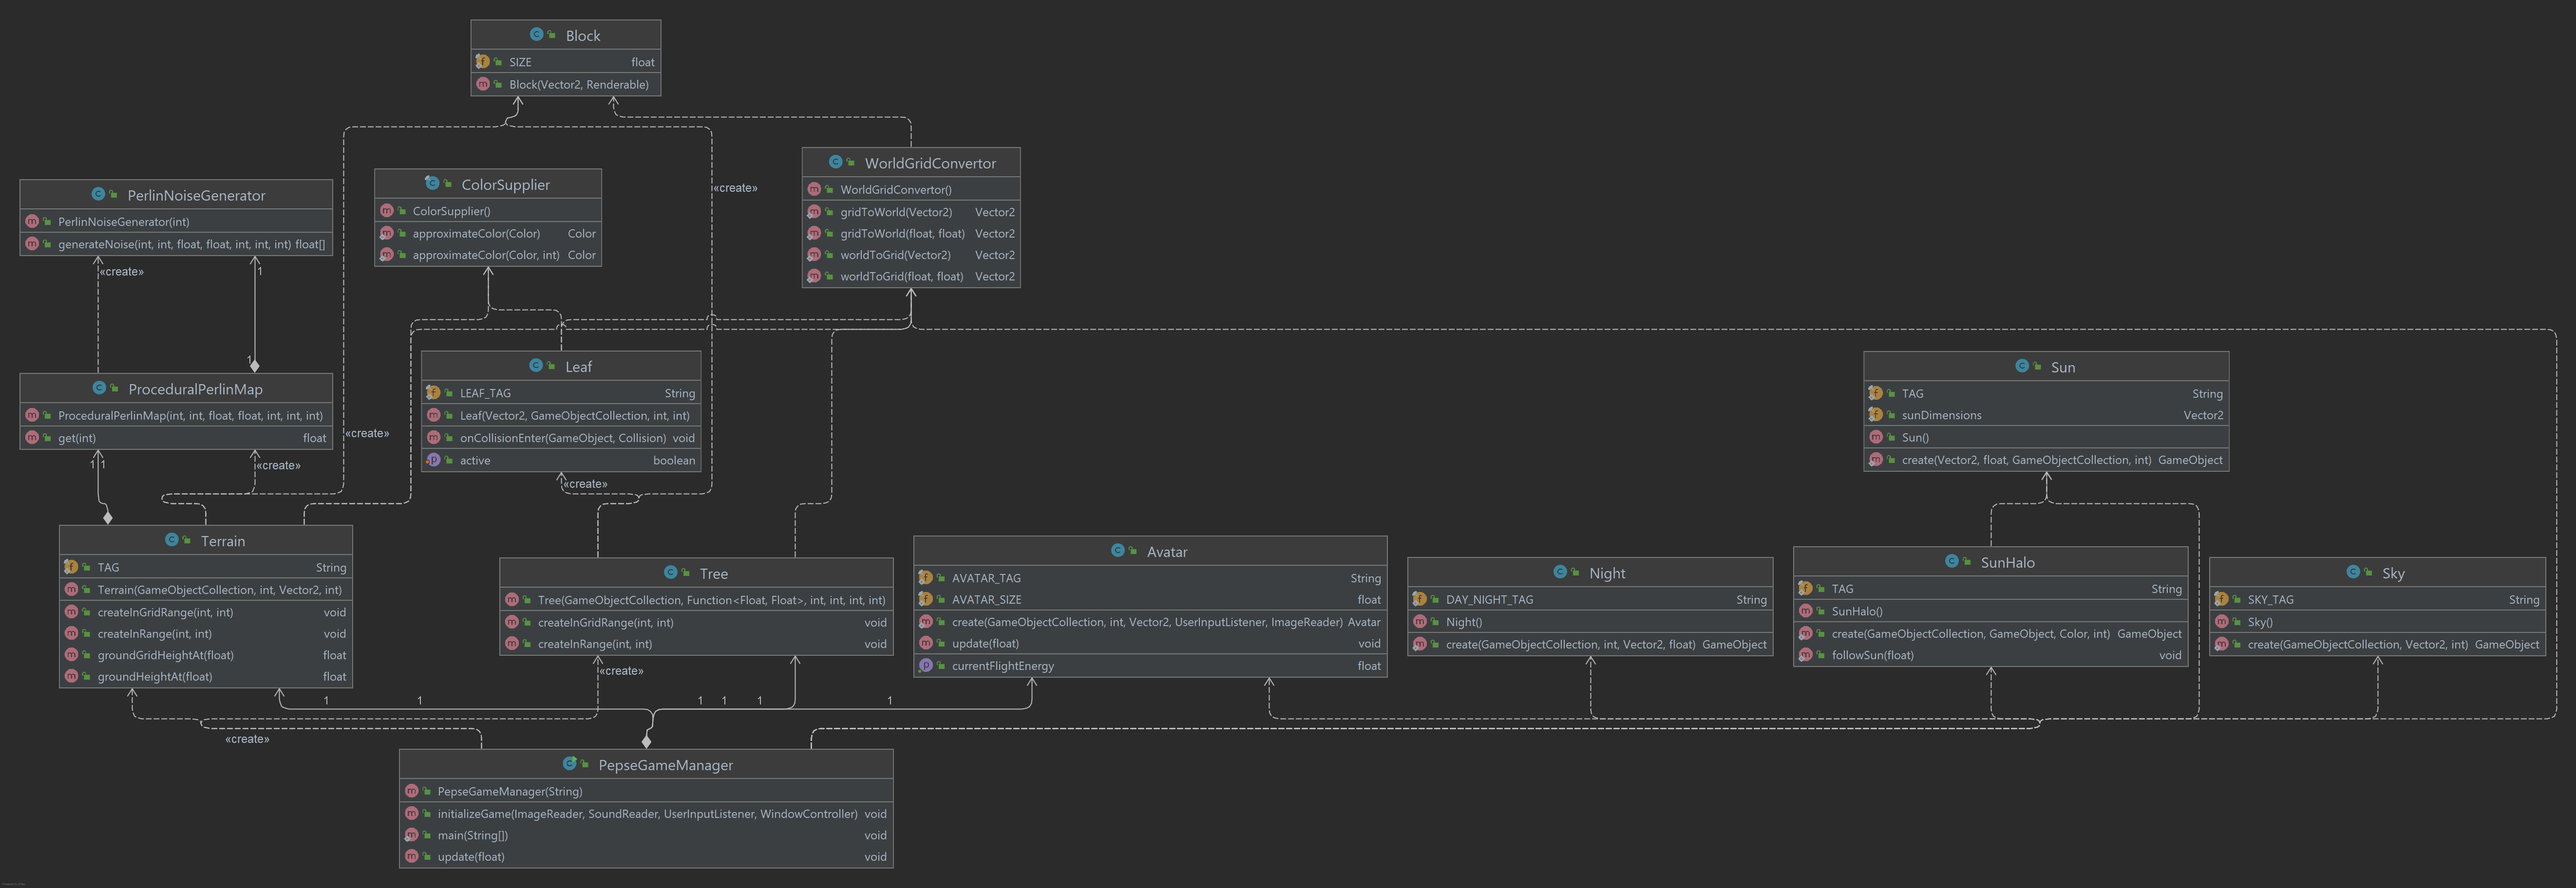
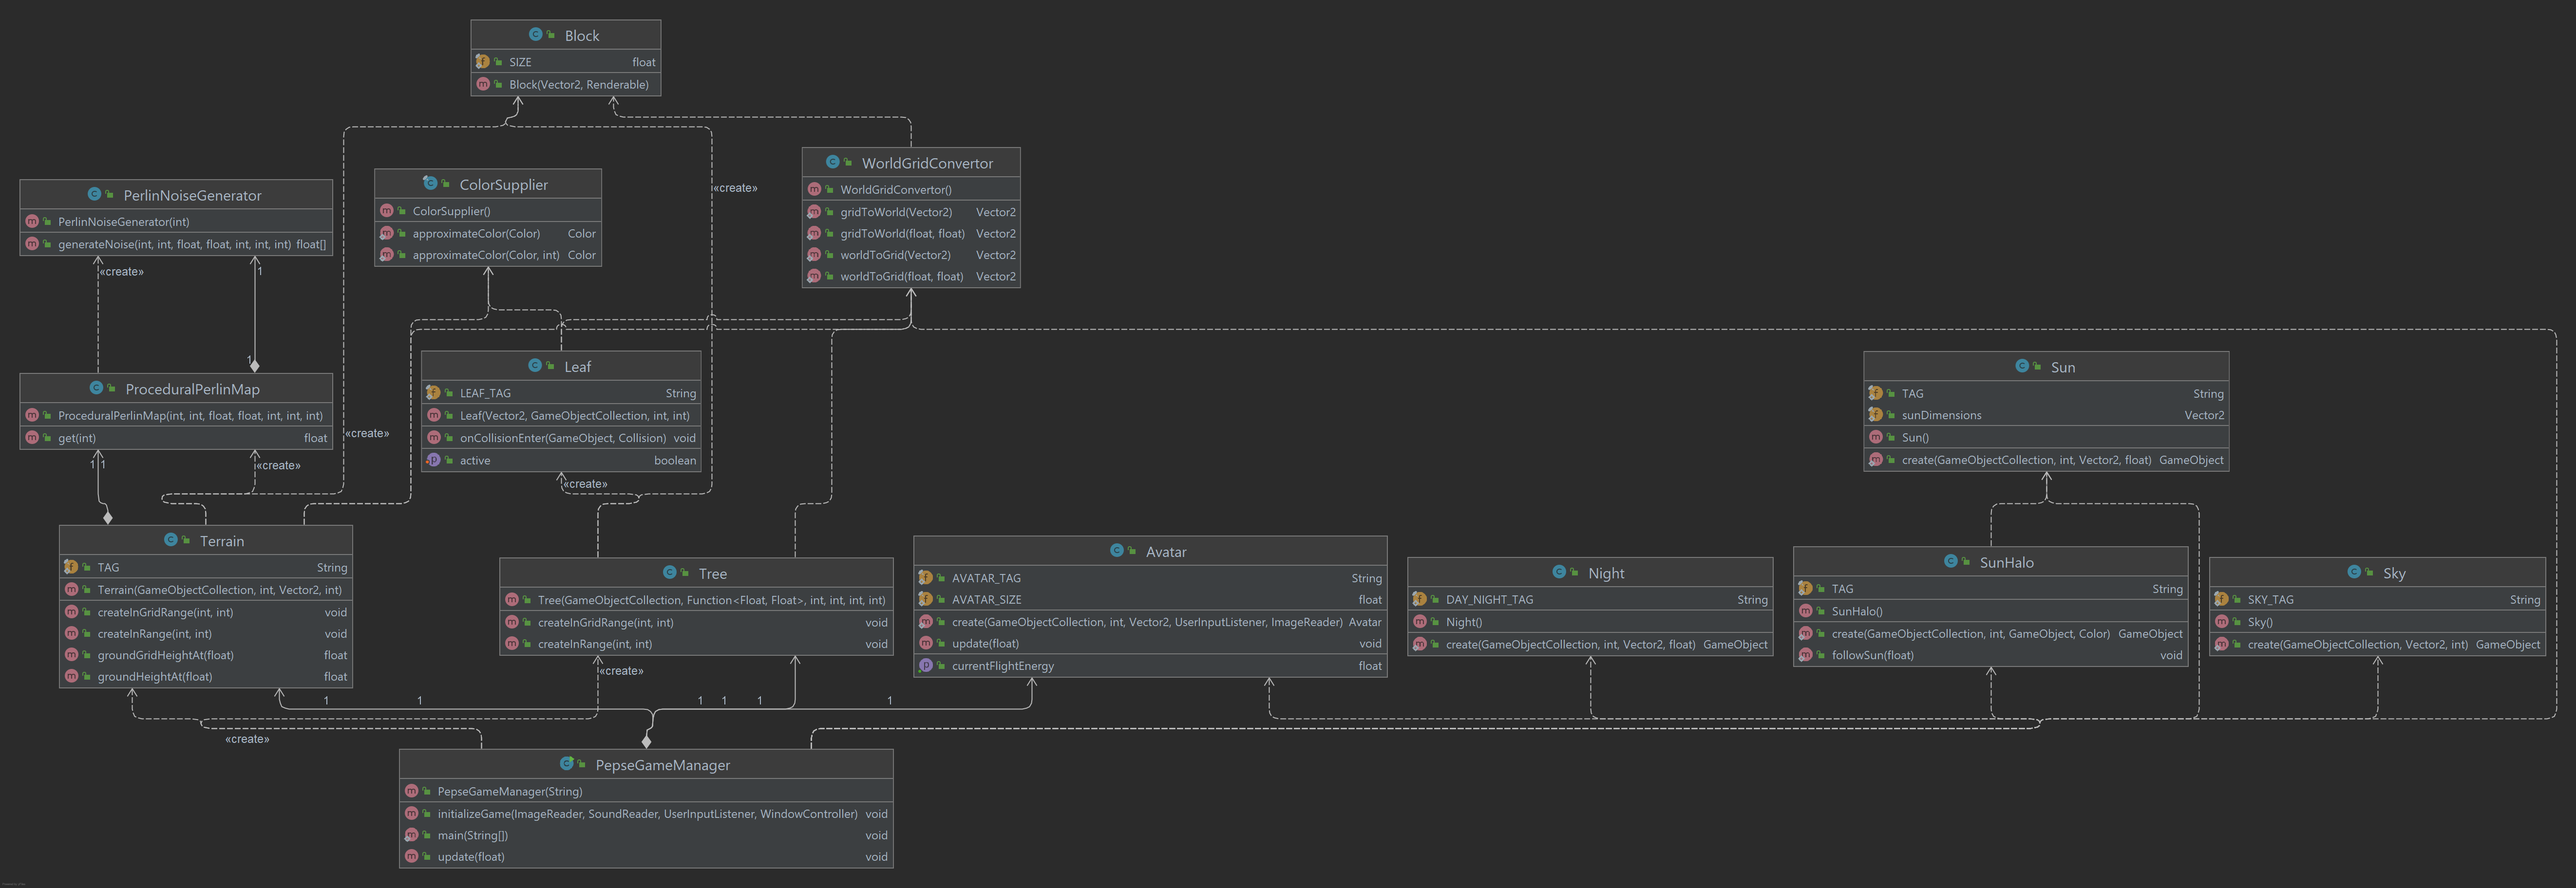
Updated signatures and diagrams

diff --git a/src/pepse/world/daynight/SunHalo.java b/src/pepse/world/daynight/SunHalo.java
@@ -20,16 +20,15 @@ public class SunHalo{
      * This function creates a halo around a given object that represents the sun.
      * The halo will be tied to the given sun, and will always move with it.
      * @param gameObjects - The collection of all participating game objects.
+     * @param layer - The number of the layer to which the created halo should be added.
      * @param sun - A game object representing the sun (it will be followed by the created game object).
      * @param color - The color of the halo.
-     * @param layer - The number of the layer to which the created halo should be added.
      * @return  A new game object representing the sun's halo.
      */
     public static GameObject create(
             GameObjectCollection gameObjects,
-            GameObject sun,
-            Color color,
-            int layer){
+            int layer, GameObject sun,
+            Color color){
         sunToFollow = sun;
         sunHalo = new GameObject(
                 Vector2.ZERO,

diff --git a/src/pepse/world/daynight/Sun.java b/src/pepse/world/daynight/Sun.java
@@ -45,18 +45,18 @@ public class Sun {
     /**
      * Creates the Object Sun and sets its movement over the screen
      *
-     * @param windowDimensions - screen dimensions
-     * @param cycleLength      - Total time for a cycle
      * @param gameObjects      - gameObject
      * @param layer            - represents the Layer which the sun will be placed.
+     * @param windowDimensions - screen dimensions
+     * @param cycleLength      - Total time for a cycle
      * @return - An object of Sun.
      */
 
     public static GameObject create(
-            Vector2 windowDimensions,
-            float cycleLength,
             GameObjectCollection gameObjects,
-            int layer) {
+            int layer,
+            Vector2 windowDimensions,
+            float cycleLength) {
         sun = new GameObject(
                 Vector2.ZERO,
                 sunDimensions,

diff --git a/src/pepse/PepseGameManager.java b/src/pepse/PepseGameManager.java
@@ -89,9 +89,9 @@ public class PepseGameManager extends GameManager {
         Sky.create(gameObjects(), windowController.getWindowDimensions(), Layer.BACKGROUND);
         Night.create(gameObjects(), Layer.FOREGROUND,
                 windowController.getWindowDimensions(), DAY_NIGHT_CYCLE_TIME);
-        GameObject sun = Sun.create(windowController.getWindowDimensions(),DAY_NIGHT_CYCLE_TIME, gameObjects(),
-                Layer.BACKGROUND + 1);
-        SunHalo.create(gameObjects(),sun, SUN_HALO_COLOR, SUN_HALO_LAYER);
+        GameObject sun = Sun.create(gameObjects(), Layer.BACKGROUND + 1, windowController.getWindowDimensions(),DAY_NIGHT_CYCLE_TIME
+        );
+        SunHalo.create(gameObjects(), SUN_HALO_LAYER, sun, SUN_HALO_COLOR);
 
 
         terrain = new Terrain(gameObjects(),GROUND_LAYER,windowController.getWindowDimensions(),
